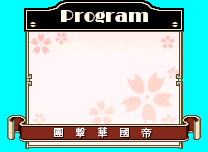
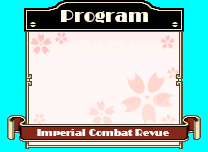
Main menu bgnd patching wip

Changed region(s): [[0.1731, 0.8158, 0.8365, 0.9211]]

diff --git a/SakuraTaisen/SakuraTaisen.cpp b/SakuraTaisen/SakuraTaisen.cpp
@@ -4082,7 +4082,50 @@ void CompressFile(const string& filePath, const string& outPath)
 	outFile.WriteData(compressedFile.mpCompressedData, compressedFile.mCompressedSize);
 }
 
-bool PatchMainMenu(const string& sakuraRootDirectory, const string& inTranslatedFontSheet, const string& outFontSheetPath)
+struct SakuraCompressedData
+{
+	char*         mpCompressedData = nullptr;
+	unsigned long mDataSize        = 0;
+
+	~SakuraCompressedData()
+	{
+		delete[] mpCompressedData;
+		mpCompressedData = nullptr;
+	}
+
+	bool PatchData(const string& inFileName, bool bPad)
+	{
+		//Load bgnd image
+		const FileNameContainer fileNameInfo(inFileName.c_str());
+		FileData fileData;
+		if( !fileData.InitializeFileData(fileNameInfo) )
+		{
+			return false;
+		}
+
+		//Compress bgnd image
+		PRSCompressor compressor;
+		compressor.CompressData((void*)fileData.GetData(), fileData.GetDataSize());
+
+		//Pad compressed data is it is divisible by 2
+		if( bPad )
+		{
+			mDataSize = compressor.mCompressedSize + (compressor.mCompressedSize%2);
+			char* mpCompressedData       = new char[mDataSize];
+			memset(mpCompressedData, 0, mDataSize);
+			memcpy_s(mpCompressedData, mDataSize, compressor.mpCompressedData, compressor.mCompressedSize);
+		}
+		else
+		{
+			mpCompressedData = std::move(compressor.mpCompressedData);
+			mDataSize        = compressor.mCompressedSize;
+		}
+
+		return true;
+	}
+
+};
+bool PatchMainMenu(const string& sakuraRootDirectory, const string& inTranslatedFontSheet, const string& outFontSheetPath, const string& inMainMenuTranslatedBgnd)
 {
 	if( !CreateTranslatedFontSheet(inTranslatedFontSheet, outFontSheetPath, false) )
 	{
@@ -4090,6 +4133,7 @@ bool PatchMainMenu(const string& sakuraRootDirectory, const string& inTranslated
 		return false;
 	}
 
+	//Load font sheet
 	const string fontSheetPath = outFontSheetPath + ".bin";
 	const FileNameContainer translatedFileName(fontSheetPath.c_str());
 	FileData translatedData;
@@ -4099,6 +4143,7 @@ bool PatchMainMenu(const string& sakuraRootDirectory, const string& inTranslated
 		return false;
 	}
 
+	//Load font sheet palette
 	const string fontSheetPalettePath = outFontSheetPath + "Palette.bin";
 	const FileNameContainer translatedFontSheetPaletteName(fontSheetPalettePath.c_str());
 	FileData translatedPaletteData;
@@ -4114,6 +4159,7 @@ bool PatchMainMenu(const string& sakuraRootDirectory, const string& inTranslated
 		return false;
 	}
 
+	//Compress font sheet
 	int numCharactersInFontSheet = 40;
 	PRSCompressor compressor;
 	compressor.CompressData((void*)translatedData.GetData(), translatedData.GetDataSize() - numCharactersInFontSheet*16*8);
@@ -4123,6 +4169,13 @@ bool PatchMainMenu(const string& sakuraRootDirectory, const string& inTranslated
 	char* pPaddedCompressedData       = new char[paddedDataSize];
 	memset(pPaddedCompressedData, 0, paddedDataSize);
 	memcpy_s(pPaddedCompressedData, paddedDataSize, compressor.mpCompressedData, compressor.mCompressedSize);
+
+	//Compress bgnd image	
+	SakuraCompressedData translatedBgndData;
+	if( !translatedBgndData.PatchData(inMainMenuTranslatedBgnd, true) )
+	{
+		printf("PatchMainMenu: Couldn't load translated bgnd image %s.\n", inMainMenuTranslatedBgnd.c_str());
+	}
 
 	const FileNameContainer logoFileName( (sakuraRootDirectory + "SAKURA1\\LOGO.SH2").c_str() );
 	FileData logoFileData;
@@ -4141,9 +4194,12 @@ bool PatchMainMenu(const string& sakuraRootDirectory, const string& inTranslated
 	char* pNewData                                  = new char[newDataSize];
 	memset(pNewData, 0, newDataSize);
 
-	const unsigned long fontSheetOffset   = 0xff20;
-	memcpy_s(pNewData, newDataSize, logoFileData.GetData(), fontSheetOffset);
-	memcpy_s(pNewData + fontSheetOffset, newDataSize - fontSheetOffset, pPaddedCompressedData, paddedDataSize);
+	//Patch font sheet
+	const unsigned long fontSheetOffset = 0x0000ff20;
+	const unsigned long bgndImageOffset = 0x00010808;
+	memcpy_s(pNewData,                   newDataSize,                   logoFileData.GetData(), fontSheetOffset); //Copy everything from the start of the file to the font sheet
+	memcpy_s(pNewData + fontSheetOffset, newDataSize - fontSheetOffset, pPaddedCompressedData,  paddedDataSize);  //Copy patched font sheet
+	//memcpy_s(pNewData + fontSheetOffset, newDataSize - fontSheetOffset, translatedBgndData.mpCompressedData, translatedBgndData.mDataSize);  //Copy patched bgnd image <----TODO
 
 	memcpy_s(pNewData + fontSheetOffset + paddedDataSize + additionalSpace, 
 		     newDataSize - fontSheetOffset - paddedDataSize - additionalSpace, 
@@ -4151,7 +4207,7 @@ bool PatchMainMenu(const string& sakuraRootDirectory, const string& inTranslated
 		     logoFileData.GetDataSize() - (fontSheetOffset + origCompressedFontSheetSize));
 
 	//Fix palette
-	memcpy_s(pNewData + 0xFE80, newDataSize, translatedPaletteData.GetData(), translatedPaletteData.GetDataSize());
+	memcpy_s(pNewData + 0xFE80, newDataSize, translatedPaletteData.GetData(), translatedPaletteData.GetDataSize()); //Palettes appear before the patched data, so we can use the original offsets
 
 	//Fix red tinted palette
 	memcpy_s(pNewData + 0xFEC0, newDataSize, translatedPaletteData.GetData(), translatedPaletteData.GetDataSize());
@@ -4233,12 +4289,13 @@ bool PatchMainMenu(const string& sakuraRootDirectory, const string& inTranslated
 	outFile.WriteData(pNewData, newDataSize);
 
 	delete[] pNewData;
+	delete[] pPaddedCompressedData;
 
 	return true;
 }
 
 bool PatchGame(const string& rootSakuraTaisenDirectory, const string& patchedSakuraTaisenDirectory, const string& translatedTextDirectory, const string& fontSheetFileName, const string& originalPaletteFileName, 
-	const string &patchedTMapSPDataPath, const string& inMainMainFontSheetPath)
+	const string &patchedTMapSPDataPath, const string& inMainMainFontSheetPath, const string& inMainMenuTranslatedBgnd)
 {
 	char buffer[MAX_PATH];
 	const DWORD dwRet = GetCurrentDirectory(MAX_PATH, buffer);
@@ -4303,7 +4360,7 @@ bool PatchGame(const string& rootSakuraTaisenDirectory, const string& patchedSak
 
 	//Step 7
 	const string translatedMainMenuFontSheetPath = tempDir + "TranslatedMainMenuFontSheet"; //Created by CreateTranslatedFontSheet
-	if( !PatchMainMenu(patchedSakuraTaisenDirectory, inMainMainFontSheetPath, translatedMainMenuFontSheetPath) )
+	if( !PatchMainMenu(patchedSakuraTaisenDirectory, inMainMainFontSheetPath, translatedMainMenuFontSheetPath, inMainMenuTranslatedBgnd) )
 	{
 		printf("Patching MainMenu LOGO.SH2 failed.\n");
 		return false;
@@ -4339,7 +4396,7 @@ void PrintHelp()
 	printf("PatchTMapSP sakuraDirectory patchDataPath\n");
 	printf("CompressFile inFilePath outFilePath\n");
 	printf("FindCompressedFile compressedFile uncompressedFile\n");
-	printf("PatchGame rootSakuraTaisenDirectory patchedSakuraTaisenDirectory translatedTextDirectory fontSheet originalPalette patchedTMapSpDataPath mainMenuFontSheetPath \n");
+	printf("PatchGame rootSakuraTaisenDirectory patchedSakuraTaisenDirectory translatedTextDirectory fontSheet originalPalette patchedTMapSpDataPath mainMenuFontSheetPath mainMenuBgndPatchedImage \n");
 }
 
 int main(int argc, char *argv[])
@@ -4456,8 +4513,9 @@ int main(int argc, char *argv[])
 		const string originalPalette              = string(argv[6]);
 		const string patchedTMapSpDataPath        = string(argv[7]) + Seperators;
 		const string mainMenuFontSheetPath        = string(argv[8]);
+		const string mainMenuTranslatedBgnd       = string(argv[9]);
 
-		PatchGame(rootSakuraTaisenDirectory, patchedSakuraTaisenDirectory, translatedTextDirectory, fontSheet, originalPalette, patchedTMapSpDataPath, mainMenuFontSheetPath);
+		PatchGame(rootSakuraTaisenDirectory, patchedSakuraTaisenDirectory, translatedTextDirectory, fontSheet, originalPalette, patchedTMapSpDataPath, mainMenuFontSheetPath, mainMenuTranslatedBgnd);
 	}
 	else if(command == "CreateTBLSpreadsheets" && argc == 5 )
 	{

diff --git a/Utils/Utils.cpp b/Utils/Utils.cpp
@@ -865,17 +865,24 @@ bool TileExtractor::ExtractTiles(unsigned int inTileWidth, unsigned int inTileHe
 /////////////////////////////////
 PRSCompressor::~PRSCompressor()
 {
-	delete[] mpCompressedData;
-	mpCompressedData = nullptr;
-
-	mCompressedSize = 0;
+	Reset();
 }
 
 void PRSCompressor::CompressData(void* pInData, const unsigned long inDataSize)
 {
+	Reset();
+
 	mpCompressedData = new char[inDataSize];
 
 	mCompressedSize = prs_compress(pInData, (void*)mpCompressedData, inDataSize);
+}
+
+void PRSCompressor::Reset()
+{
+	delete[] mpCompressedData;
+	mpCompressedData = nullptr;
+
+	mCompressedSize = 0;
 }
 
 ///////////////////////////////////

diff --git a/Utils/Utils.h b/Utils/Utils.h
@@ -305,6 +305,7 @@ struct PRSCompressor
 
 	~PRSCompressor();
 	void CompressData(void* pInData, const unsigned long inDataSize);
+	void Reset();
 };
 
 struct PRSDecompressor
